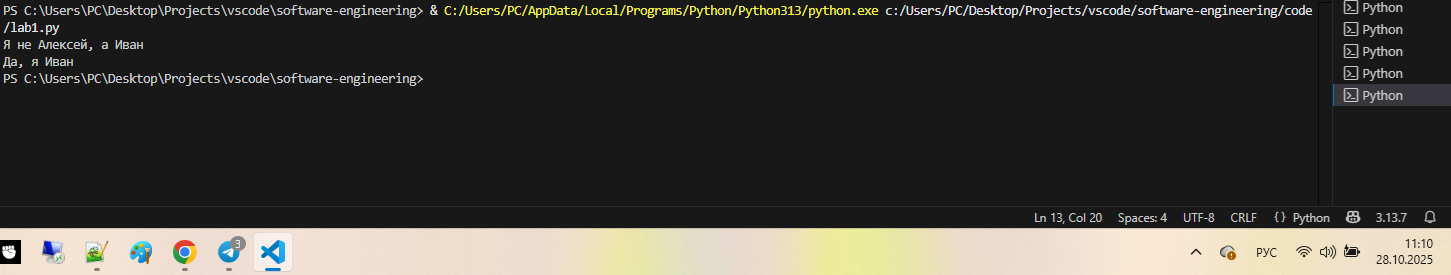
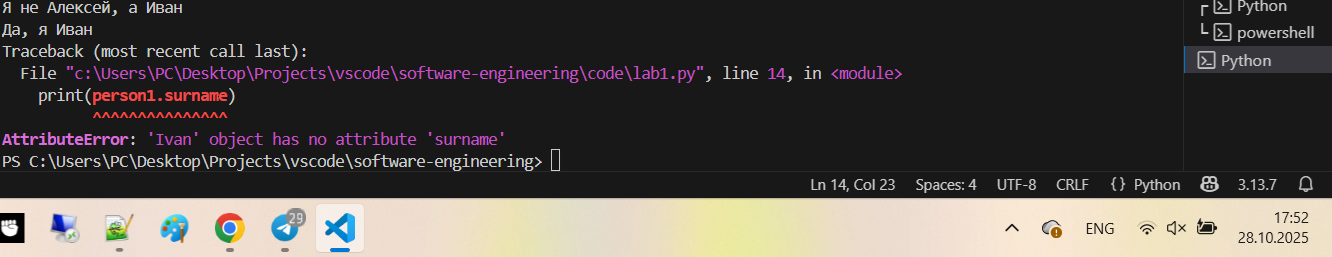
Исправлены мелкие недочеты

diff --git a/code/lab1.py b/code/lab1.py
@@ -11,3 +11,4 @@ person1 = Ivan('Алексей')
 person2 = Ivan('Иван')
 print(person1.name)
 print(person2.name)
+print(person1.surname)

diff --git a/Тема_9.md b/Тема_9.md
@@ -10,11 +10,6 @@
 | Задание 3  | +       | +       |
 | Задание 4  | +       | +       |
 | Задание 5  | +       | +       |
-| Задание 6  | -       | +       |
-| Задание 7  | -       | +       |
-| Задание 8  | -       | +       |
-| Задание 9  | -       | +       |
-| Задание 10 | -       | +       |
 
 знак "+" - задание выполнено; знак "-" - задание не выполнено;
 
@@ -43,10 +38,11 @@ person1 = Ivan('Алексей')
 person2 = Ivan('Иван')
 print(person1.name)
 print(person2.name)
+print(person1.surname)
 ```
 ### Результат.
 
-![Меню](images/sam1.png)
+![Меню](images/lab1.png)
 
 ### Выводы
 
@@ -360,7 +356,7 @@ gardener.harvest()
 ### Выводы
 
 1. Класс `Tomato` (Помидор): метод `grow` переводит помидор на следующую стадию созревания; метод `is_ripe` проверяет, созрел ли помидор.
-2. Класс `TomatoBush` (Куст): метод grow_all переводит все помидоры на кусте на следующую стадию созревания; метод `are_all_ripe` проверяет, все ли помидоры созрели; метод `give_away_all` очищает куст.
+2. Класс `TomatoBush` (Куст): метод `grow_all` переводит все помидоры на кусте на следующую стадию созревания; метод `are_all_ripe` проверяет, все ли помидоры созрели; метод `give_away_all` очищает куст.
 3. Класс `Gardener` (Садовник): с метода `work` садовник ухаживает за кустом, переводя все помидоры на следующую стадию; метод `harvest` позволяет собрать урожай, либо выводит сообщение о том, что помидоры еще не созрели; метод `knowledge_base` выводит инструкцию.
 
 ## Общие выводы по теме
